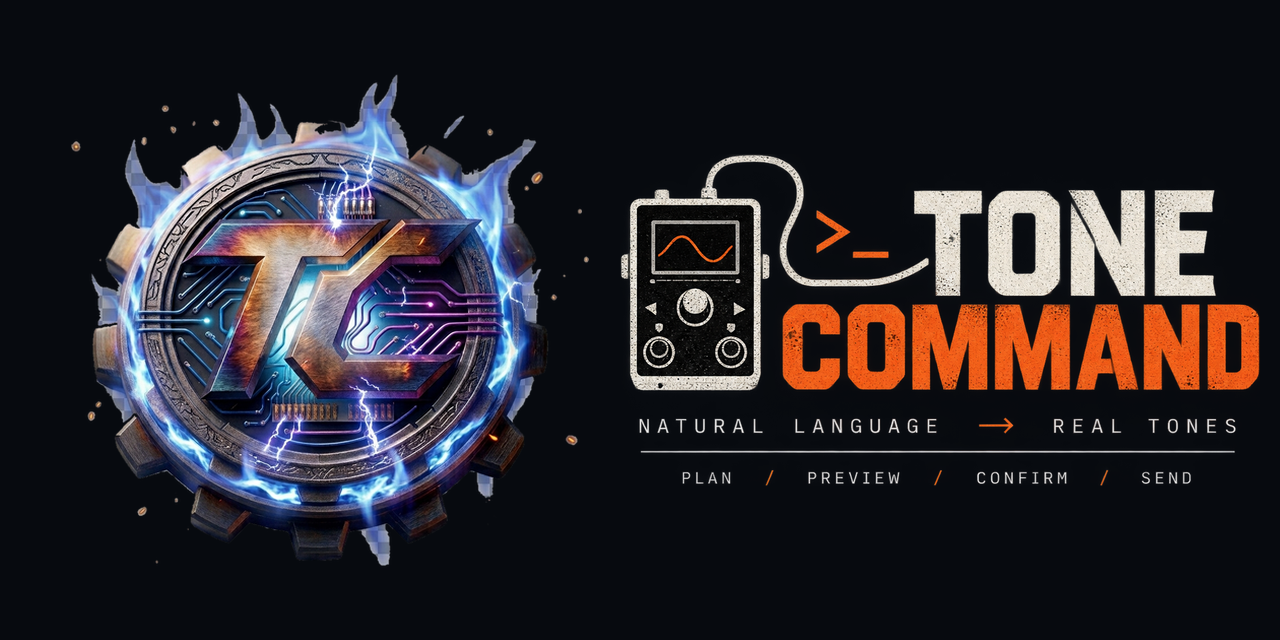
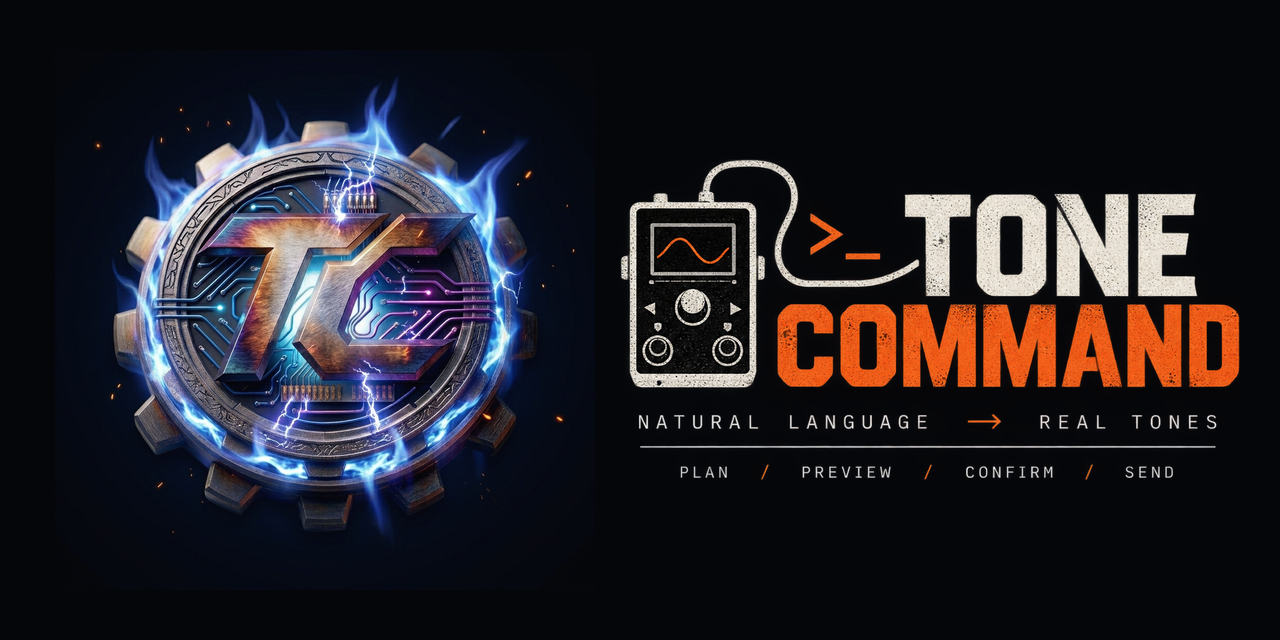
Use the black-background art, and call it the blast radius
Moncy was right about the logo, and the zoom shows why. Keying the painted
checkerboard left residual checker INSIDE the blue flames, because those
pixels are flame blended with checker rather than pure checker, so a flood
fill cannot reach them. Visible as grey patches in the flames at any size
above a thumbnail.

The black-background art has no such problem: the generator composited the
flames over black properly. Its backdrop measured (0, 1, 5) against GitHub's
(13, 17, 23), which is the faint box that was visible on a dark theme, so its
black point is lifted onto the page colour. Pure black now lands exactly on
the background and the plate disappears into a dark theme instead of sitting
on it. Corners are rounded, so on a light theme it reads as a deliberate dark
card rather than a photo nobody cut out.

The social card is rebuilt from the same art untouched, since a full bleed
canvas needs no keying and no rebasing at all.

And the warning is called the blast radius now, on the plan card and in the
log, not only in the changelog and a filename. Moncy named it, the name is
good, and a warning you can refer to by name is one people repeat to each
other.

Changed region(s): [[0.0625, 0.125, 0.4375, 0.875], [0.4688, 0.2188, 1.0, 0.75]]

diff --git a/ui/index.html b/ui/index.html
@@ -939,8 +939,12 @@ function alsoAffects(a, currentScene) {
     if (!scenes.includes(currentScene)) continue;
     const others = scenes.filter(n => n !== currentScene);
     if (!others.length) return '';
-    return `also changes scene${others.length > 1 ? 's' : ''} ${others.join(', ')}, ` +
-           `which ${others.length > 1 ? 'share' : 'shares'} this block's channel`;
+    // "Blast radius" is the name of this idea in the project, so it is the
+    // name on screen too. A warning you can refer to by name is one people
+    // repeat to each other.
+    return `blast radius: also changes scene${others.length > 1 ? 's' : ''} ` +
+           `${others.join(', ')}, which ${others.length > 1 ? 'share' : 'shares'} ` +
+           `this block's channel`;
   }
   return '';
 }
@@ -1566,7 +1570,7 @@ async function engage() {
     affectedScenes = scenesAffectedBy(plan);
     renderScenes({scenes: lastScenes, scene: {number: currentSceneNumber}});
     if (affectedScenes.size) {
-      log(`heads up: this also moves scene${affectedScenes.size > 1 ? 's' : ''} ` +
+      log(`blast radius: this also moves scene${affectedScenes.size > 1 ? 's' : ''} ` +
           `${[...affectedScenes].sort((a, b) => a - b).join(', ')}`, 'warn');
     }
     const prevBy = $('planby'); if (prevBy) prevBy.remove();

diff --git a/tests/test_ui_warning.py b/tests/test_ui_warning.py
@@ -238,3 +238,11 @@ def test_the_chevron_is_drawn_not_typed():
     style = UI.split("<style>")[1].split("</style>")[0]
     after = style.split(".audbtn::after {")[1].split("}")[0]
     assert "border-left" in after and "border-top" in after
+
+
+def test_the_warning_is_called_a_blast_radius():
+    """Moncy named it and the name is good, so it is the name on screen too.
+    A warning you can refer to by name is one people repeat to each other."""
+    assert "blast radius:" in SCRIPT
+    spread = SCRIPT.split("function alsoAffects")[1].split("\n}")[0]
+    assert "blast radius" in spread

diff --git a/README.md b/README.md
@@ -1,7 +1,11 @@
 <p align="center">
+  <img src="docs/img/logo.png" alt="ToneCommand" width="190">
+</p>
+
+<p align="center">
   <img src="docs/img/wordmark.png"
        alt="ToneCommand: natural language, real tones. Plan, preview, confirm, send."
-       width="560">
+       width="520">
 </p>
 
 <p align="center"><strong>Describe the tone you want. Your rig obeys.</strong></p>
@@ -62,15 +66,18 @@ cabs, searchable by name **and** by what the cab actually is, because
 Every step loads on the unit and is covered by UNDO, because an audition you
 cannot back out of is a trap rather than a feature.
 
-### It warns you before it surprises you
+### Blast radius
 
 ![Seven scenes lit amber with WILL CHANGE badges](docs/img/blast-radius.png)
 
 FM9 parameters live on the **channel**, not on the scene. Turning up the mid in
 scene 1 moves every other scene sharing that channel, which is the single
-easiest way to wreck a working preset without noticing. Every scene a pending
-plan would also move lights up and says so, at the same visual weight as the
-scene you are standing in.
+easiest way to wreck a working preset without noticing.
+
+So before anything is sent, the tool shows you the blast radius: every scene
+the pending plan would also move lights up and says WILL CHANGE, at the same
+visual weight as the scene you are standing in. It goes out the moment the
+plan does.
 
 ### It can tell you whether a preset is actually correct
 

diff --git a/CHANGELOG.md b/CHANGELOG.md
@@ -49,8 +49,9 @@ session, we have already lost.
   needs no extra reads. Run against preset 151 it found THREE identical
   scenes where the ear pass had found two, one of them named PITCH with no
   pitch block engaged. Three separate audits had passed all of them.
-- **Blast-radius warning.** Changing a parameter moves every scene sharing that
-  block's channel. Those scenes now light amber with a WILL CHANGE badge at
+- **Blast radius.** Changing a parameter moves every scene sharing that
+  block's channel, and the tool now says so by name, on the plan card and in
+  the log. Those scenes now light amber with a WILL CHANGE badge at
   the same visual weight as the active scene, rather than the fact living in
   small print under the plan card.
 - **`tools/ui_probe.py`.** Headless Chrome over the DevTools protocol:
